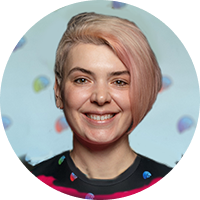
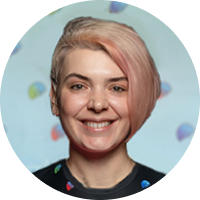
Правки 5-й страницы

diff --git a/src/index.html b/src/index.html
@@ -445,7 +445,7 @@
                     </div>
 
                     <div class="page-content">
-                        <div class="worker-row grid-2 wow fadeInUp" data-wow-duration="800ms" data-wow-delay="150ms" data-wow-offset="250">
+                        <div class="worker-row grid-3 wow fadeInUp" data-wow-duration="800ms" data-wow-delay="150ms" data-wow-offset="250">
                             <div class="worker-card">
                                 <div class="worker-card__img">
                                     <img src="/assets/img/worker-2.png" alt="worker" />
@@ -457,8 +457,15 @@
                                     </div>
 
                                     <div class="worker-card__text">
-                                        <span>основатель <br />и тренер</span>
+                                        <span>основатель <br />и Head coach</span>
                                     </div>
+
+                                    <ul class="worker-card__list">
+                                        <li>- 5-кратный чемпион Украины по триатлону и акватлону среди юношей</li>
+                                        <li>- Опыт работы со спортсменами-любителями – 7 лет</li>
+                                        <li>- Подготовил более 70 триатлетов (плавание, велосипед, бег)</li>
+                                        <li>- Собрал самую большую команду по триатлону в Украине</li>
+                                    </ul>
                                 </div>
                             </div>
 
@@ -473,8 +480,39 @@
                                     </div>
 
                                     <div class="worker-card__text">
-                                        <span>основатель <br />и тренер</span>
+                                        <span>главный <br />тренер</span>
                                     </div>
+
+                                    <ul class="worker-card__list">
+                                        <li>- Основатель LAMANTEAM — топ-1 команды по плаванию в Харькове</li>
+                                        <li>- Чемпион Украины по триатлону</li>
+                                        <li>- Основатель LAMANTEAM — топ-1 команды по плаванию в Харькове</li>
+                                    </ul>
+                                </div>
+                            </div>
+
+                            <div class="worker-card">
+                                <div class="worker-card__img">
+                                    <img src="/assets/img/worker-6.png" alt="worker" />
+                                </div>
+
+                                <div class="worker-card__box">
+                                    <div class="worker-card__name">
+                                        <span>Даша <br />Баркова</span>
+                                    </div>
+
+                                    <div class="worker-card__text">
+                                        <span>тренер</span>
+                                    </div>
+
+                                    <ul class="worker-card__list">
+                                        <li>- Мастер спорта по плаванию</li>
+                                        <li>- Многократный чемпион Украины по плаванию</li>
+                                        <li>- Многократный победитель и призёр кубков Украины по плаванию на открытой воде</li>
+                                        <li>- Дипломированный специалист в области физической культуры</li>
+                                        <li>- Сертифицированный тренер по фитнесу</li>
+                                        <li>- Опыт работы 4 года</li>
+                                    </ul>
                                 </div>
                             </div>
                         </div>

diff --git a/src/assets/scss/worker/worker-card.scss b/src/assets/scss/worker/worker-card.scss
@@ -10,11 +10,11 @@
 
   &__img {
     flex-shrink: 0;
-    width: sizeIns(330, $valLeptop1);
-    height: sizeIns(330, $valLeptop1);
+    width: sizeIns(200, $valLeptop1);
+    height: sizeIns(200, $valLeptop1);
     border-radius: 100%;
     border: sizeIns(7, $valLeptop1) solid #12295F;
-    margin: 0 sizeIns(43, $valLeptop1) 0 0;
+    margin: 0 sizeIns(30, $valLeptop1) 0 0;
     overflow: hidden;
 
     @media ($mobile1) {
@@ -32,7 +32,7 @@
     font-family: $f-p;
     font-style: normal;
     font-weight: bold;
-    @include fzEl ($fz, 64);
+    @include fzEl ($fz, 36);
     line-height: 95%;
     color: $c-main-dark;
     margin: 0 0 sizeIns(27, $valLeptop1);
@@ -48,7 +48,7 @@
     font-family: $f-p;
     font-style: normal;
     font-weight: bold;
-    @include fzEl ($fz, 36);
+    @include fzEl ($fz, 26);
     line-height: 95%;
     color: $c-main-dark;
 
@@ -58,6 +58,13 @@
     }
   }
 
+  &__list {
+    list-style: none;
+    margin: 10px 0 0;
+    padding: 0;
+    display: none;
+  }
+
   &_sm {
     @media ($mobile1) {
       margin: 0 auto sizeIns(40, $valMobile4);
@@ -65,9 +72,10 @@
   }
 
   &_sm &__img {
-    width: sizeIns(200, $valLeptop1);
-    height: sizeIns(200, $valLeptop1);
-    margin: 0 sizeIns(40, $valLeptop1) 0 0;
+    width: sizeIns(150, $valLeptop1);
+    height: sizeIns(150, $valLeptop1);
+    margin: 0 sizeIns(30, $valLeptop1) 0 sizeIns(20, $valLeptop1);
+    border: sizeIns(4, $valLeptop1) solid #12295F;
 
     @media ($mobile1) {
       width: sizeIns(170, $valMobile4);
@@ -77,7 +85,7 @@
   }
 
   &_sm &__name {
-    @include fzEl ($fz, 36);
+    @include fzEl ($fz, 30);
     margin: 0 0 sizeIns(25, $valLeptop1);
 
     @media ($mobile1) {
@@ -88,7 +96,7 @@
   }
 
   &_sm &__text {
-    @include fzEl ($fz, 24);
+    @include fzEl ($fz, 22);
 
     @media ($mobile1) {
       @include fzElMob ($fz, 18);

diff --git a/src/assets/scss/section-main/section-title.scss b/src/assets/scss/section-main/section-title.scss
@@ -38,7 +38,7 @@
 
   .section-5 & {
     color: $c-main-dark;
-    margin: sizeIns(253, $valLeptop1) 0 sizeIns(112, $valLeptop1);
+    margin: sizeIns(200, $valLeptop1) 0 sizeIns(112, $valLeptop1);
 
     @media ($mobile1) {
       margin: 0 0 sizeIns(56, $valMobile4);

diff --git a/src/assets/scss/grid/grid.scss b/src/assets/scss/grid/grid.scss
@@ -10,7 +10,7 @@
 
   &-3 {
     & > * {
-      @include grid (3, sizeIns(100, $valLeptop1), 0px);
+      @include grid (3, sizeIns(40, $valLeptop1), 0px);
     }
   }
 
